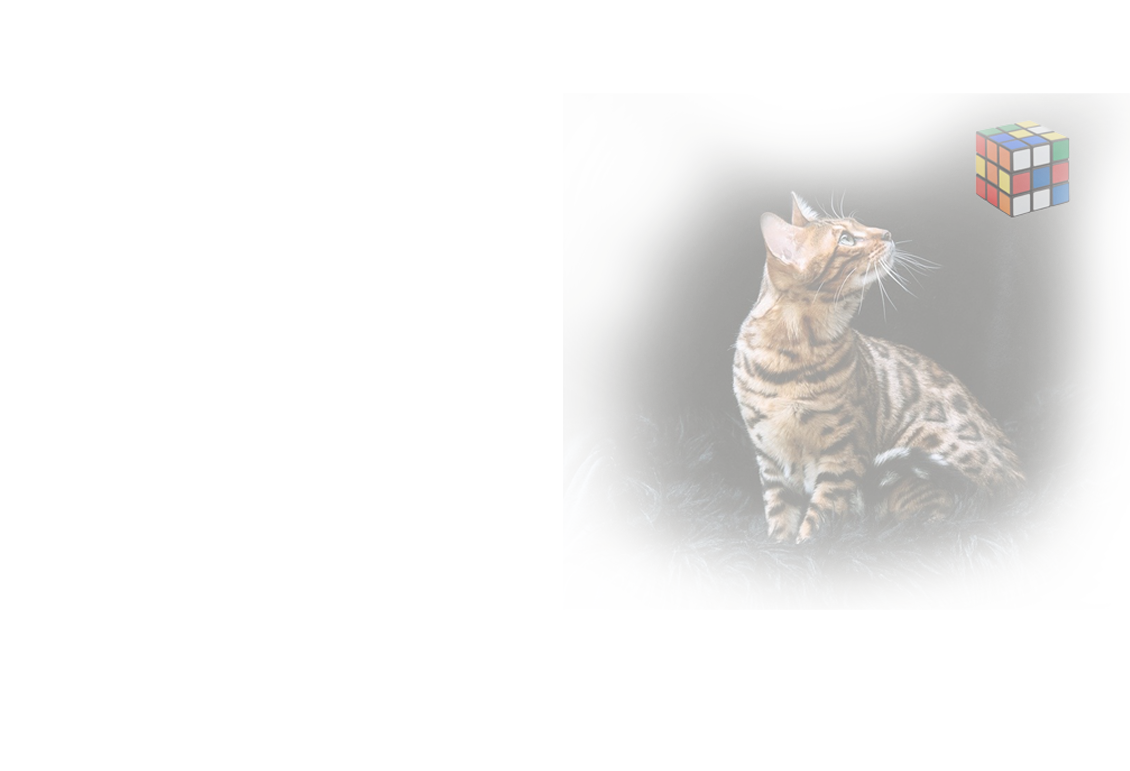
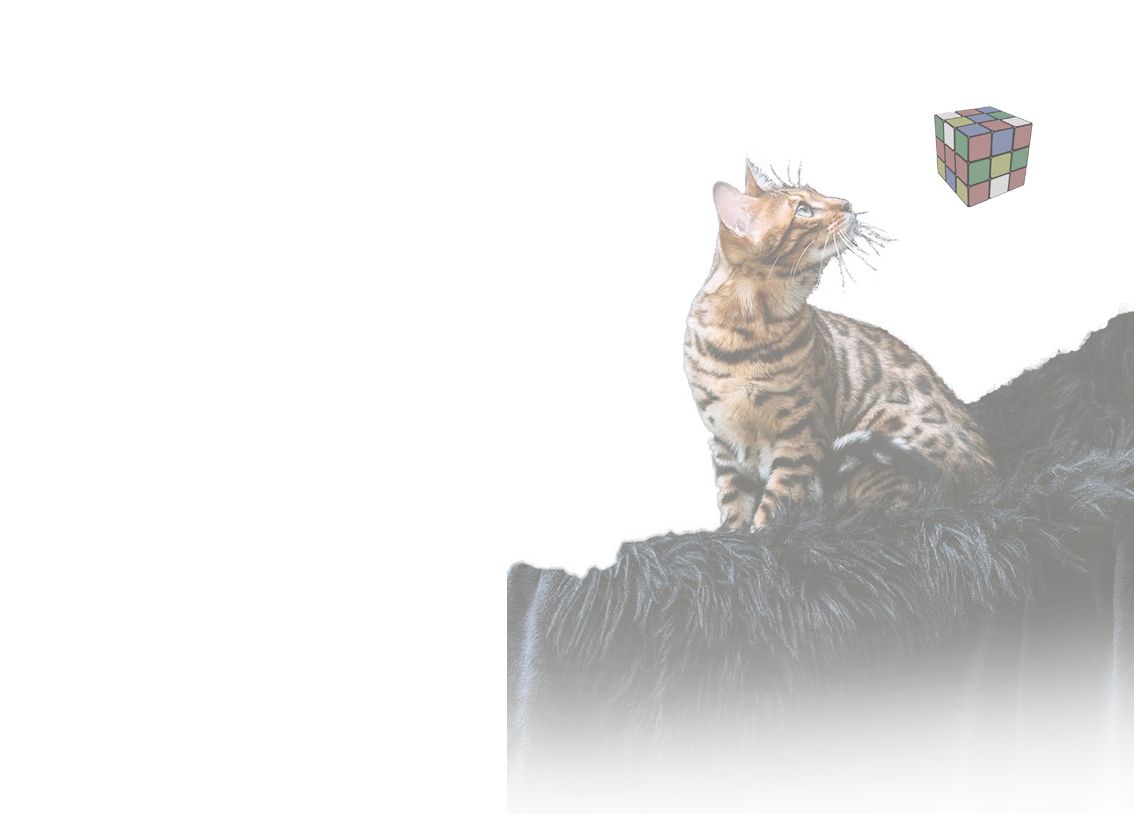
Modify skills.html

diff --git a/skills.html b/skills.html
@@ -55,7 +55,7 @@
       <section id="wrapper">
         <header>
           <div class="inner">
-            <h2>Skills</h2>
+            <h2 style="border-bottom:none">Skills</h2>
             <p>Skills and years of practice</p>
 
 			<img src="/images/svg/netdev-icon.svg">
@@ -72,7 +72,7 @@
           <header>
             <div class="inner" id="returnid">
 
-              <p class="p-normal">Here you find the areas I am familiar with. Hover over each element below to see the approximate years or months of practice I have within each area.</p>
+              <p class="p-normal w-medium">Here you find the areas I am familiar with. Hover over each element below to see the approximate years or months of practice I have within each area.</p>
               
               <section class="flx-main">
                 <h4 class="flx-main__fw">Languages</h4>

diff --git a/assets/css/custom.css b/assets/css/custom.css
@@ -213,3 +213,18 @@ font families
 .p-top-4 {
     padding-top:4rem;
 }
+
+/* Width and placement */
+
+.w-medium {
+    width:70%; 
+}
+
+@media (max-width:764px) {
+
+    .w-medium {
+        width:100%;
+    }
+
+
+}
